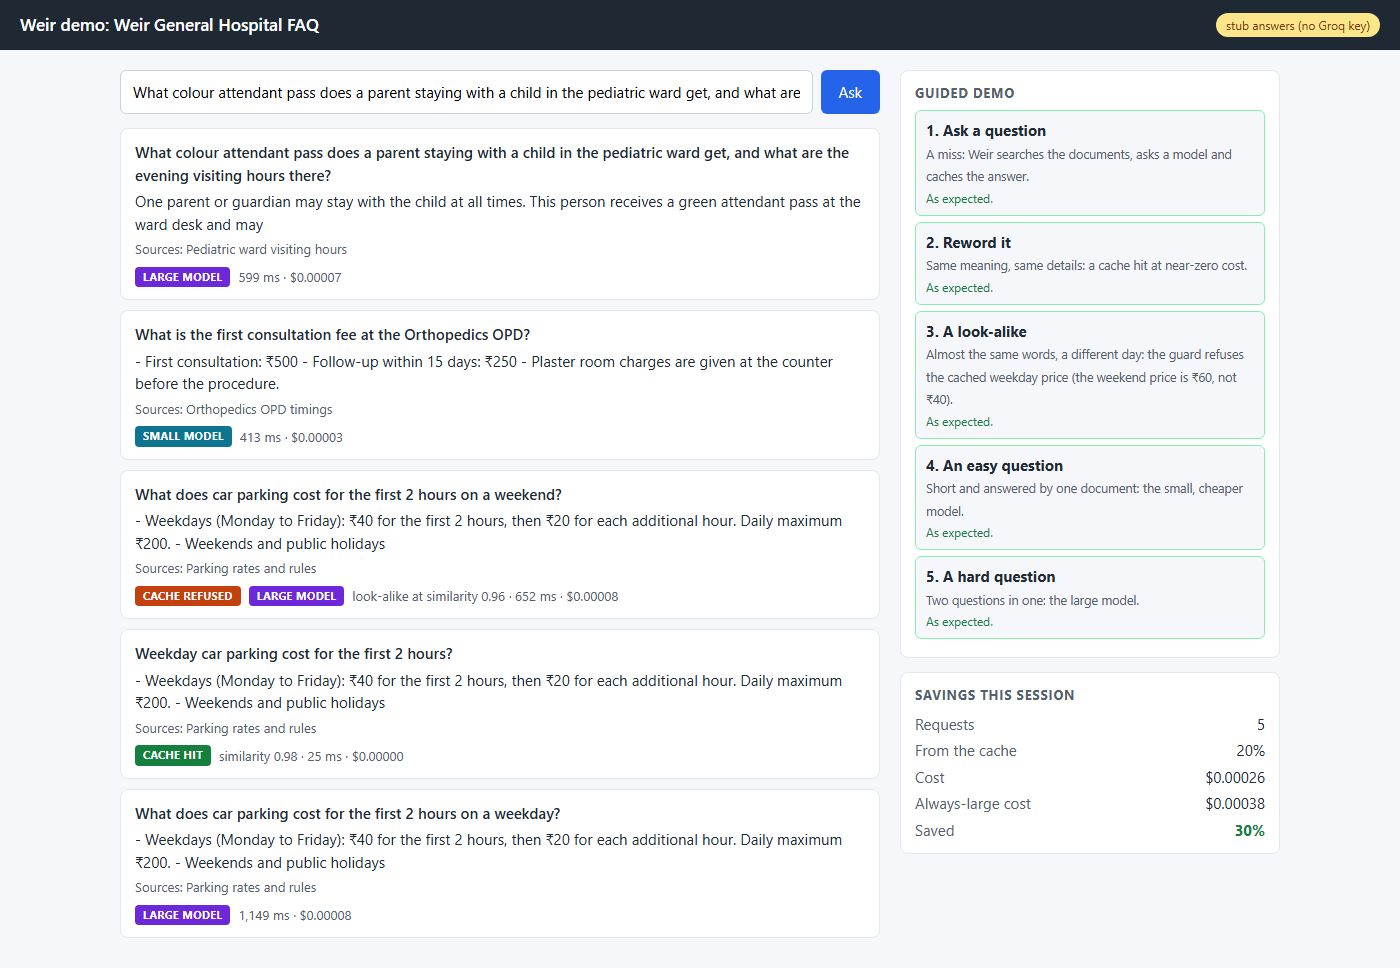
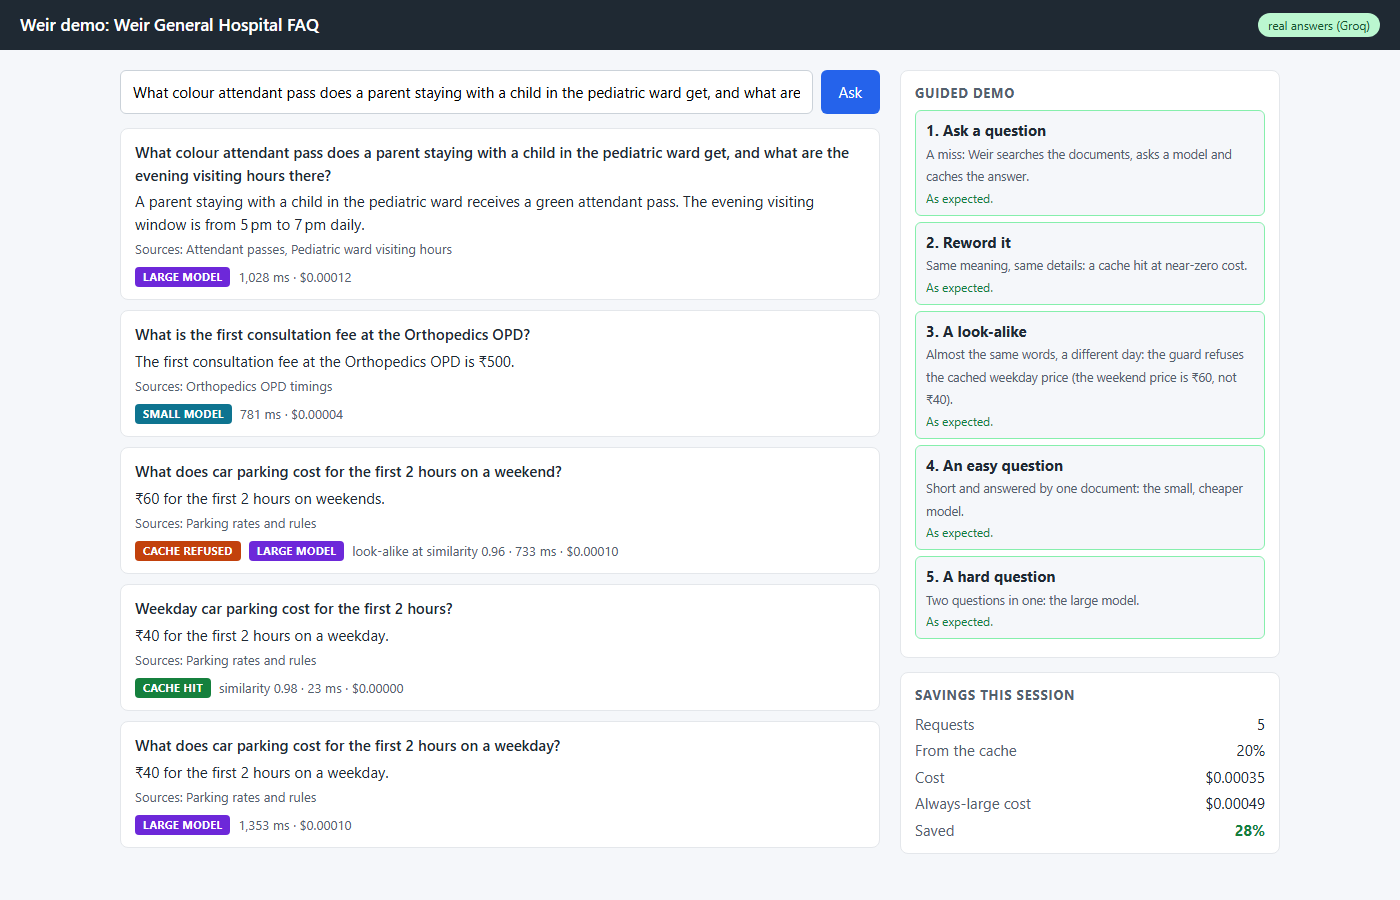
test: demo smoke takes --mode; README screenshot retaken with real Groq answers (Phase 6A)

Changed region(s): [[0.0, 0.0, 1.0, 0.9644], [0.86, 0.7467, 0.9214, 0.9022], [0.8907, 0.9022, 0.9214, 0.9333]]

diff --git a/scripts/demo_smoke.py b/scripts/demo_smoke.py
@@ -3,11 +3,13 @@
     uv run --with playwright python -m playwright install chromium   # once, ~150 MB
     uv run demo.py --stub --no-browser                               # a fresh stack and an empty demo cache
     uv run --with playwright python scripts/demo_smoke.py
-
+    uv run --with playwright python scripts/demo_smoke.py --mode groq   # after `uv run demo.py --no-browser`
+                                                                         # with a Groq key: about 5 model calls
 Clicks the five guided steps and checks every badge and tick, the savings panel, the key leaving the address
 bar, a repeated step, and the three error paths (no key, a wrong key, a Groq rate limit).
 Saves docs/images/demo.png. Never prints a key.
 """
+import argparse
 import json
 import re
 import sys
@@ -24,6 +26,7 @@ CACHE_WRITE_WAIT_MS = 2000
 PASS = re.compile(r"\bpass\b")
 OTHER = re.compile(r"\bother\b")
 BADGE = {2: "CACHE HIT", 3: "CACHE REFUSED", 4: "SMALL MODEL", 5: "LARGE MODEL"}
+MODE_TEXT = {"stub": "stub answers (no Groq key)", "groq": "real answers (Groq)"}
 
 
 def ask_free_text(page, question: str) -> None:
@@ -44,13 +47,16 @@ def guided_steps(page) -> None:
 
 
 def main() -> None:
+    parser = argparse.ArgumentParser(description="Live smoke for the Weir demo page.")
+    parser.add_argument("--mode", choices=sorted(MODE_TEXT), default="stub", help="the mode demo.py started")
+    mode = parser.parse_args().mode
     key = demo.read_env(demo.ROOT / ".env")["WEIR_KEY_PUBLIC"]
     with sync_playwright() as p:
         browser = p.chromium.launch()
         page = browser.new_page(viewport={"width": 1400, "height": 900}, device_scale_factor=1)
 
-        page.goto(demo.demo_url(key, "stub"))
-        expect(page.locator("#mode")).to_have_text("stub answers (no Groq key)")
+        page.goto(demo.demo_url(key, mode))
+        expect(page.locator("#mode")).to_have_text(MODE_TEXT[mode])
         assert "key=" not in page.url, "the key stayed in the address bar"
         expect(page.locator("button.step")).to_have_count(5)
         guided_steps(page)
@@ -71,7 +77,7 @@ def main() -> None:
         page.unroute("**/v1/query")
 
         wrong = browser.new_context().new_page()                          # Review Focus 3: a wrong key
-        wrong.goto(demo.demo_url("not-the-key", "stub"))
+        wrong.goto(demo.demo_url("not-the-key", mode))
         ask_free_text(wrong, "Is there a pharmacy open at night?")
         expect(wrong.locator(".card.error").first).to_contain_text("The key was rejected")
 

diff --git a/docs/progress.md b/docs/progress.md
@@ -345,3 +345,4 @@ Full Weir with the final settings, against the same-day-style baseline v4:
   - Task 3: the demo page (layout B): answer cards with path badges, the guided sidebar with ticks, the savings panel, plain error cards; the key moves from the URL fragment to `sessionStorage` and leaves the address bar; text is inserted with `textContent` only. weir 285; the script passes `node --check`.
   - Task 4: `uv run demo.py`, a standard-library launcher (flags `--stub`, `--keep-cache`, `--dashboard`, `--check`, `--no-browser`, `--stop`). 18 launcher tests, run in CI.
   - Task 5: the guided story verified live (`uv run demo.py --stub --check`, fresh demo cache): step 1 miss (large), step 2 hit at similarity 0.984, step 3 refused by the guard at 0.964, step 4 small, step 5 large. All five passed first time; the planned fallbacks were not needed. On a warm cache (`--keep-cache`) steps 1, 3, 4 and 5 report "got hit" and the check exits 1, as intended.
+  - Task 6: `scripts/demo_smoke.py` (Playwright) clicks the five steps and checks every badge, tick and the savings panel, the key leaving the address bar, a repeated step reporting "already cached", and three error paths (no key: the page asks; a wrong key: "The key was rejected"; a simulated Groq rate limit). Passed in stub mode, then with real Groq models (5 model calls, user-approved): weekday ₹40 from the large model (1.35 s), the reworded question from the cache (23 ms, $0), the weekend look-alike refused by the guard and answered ₹60, orthopedics on the small model, the two-part question on the large model. The README screenshot `docs/images/demo.png` shows the real-answer run.
